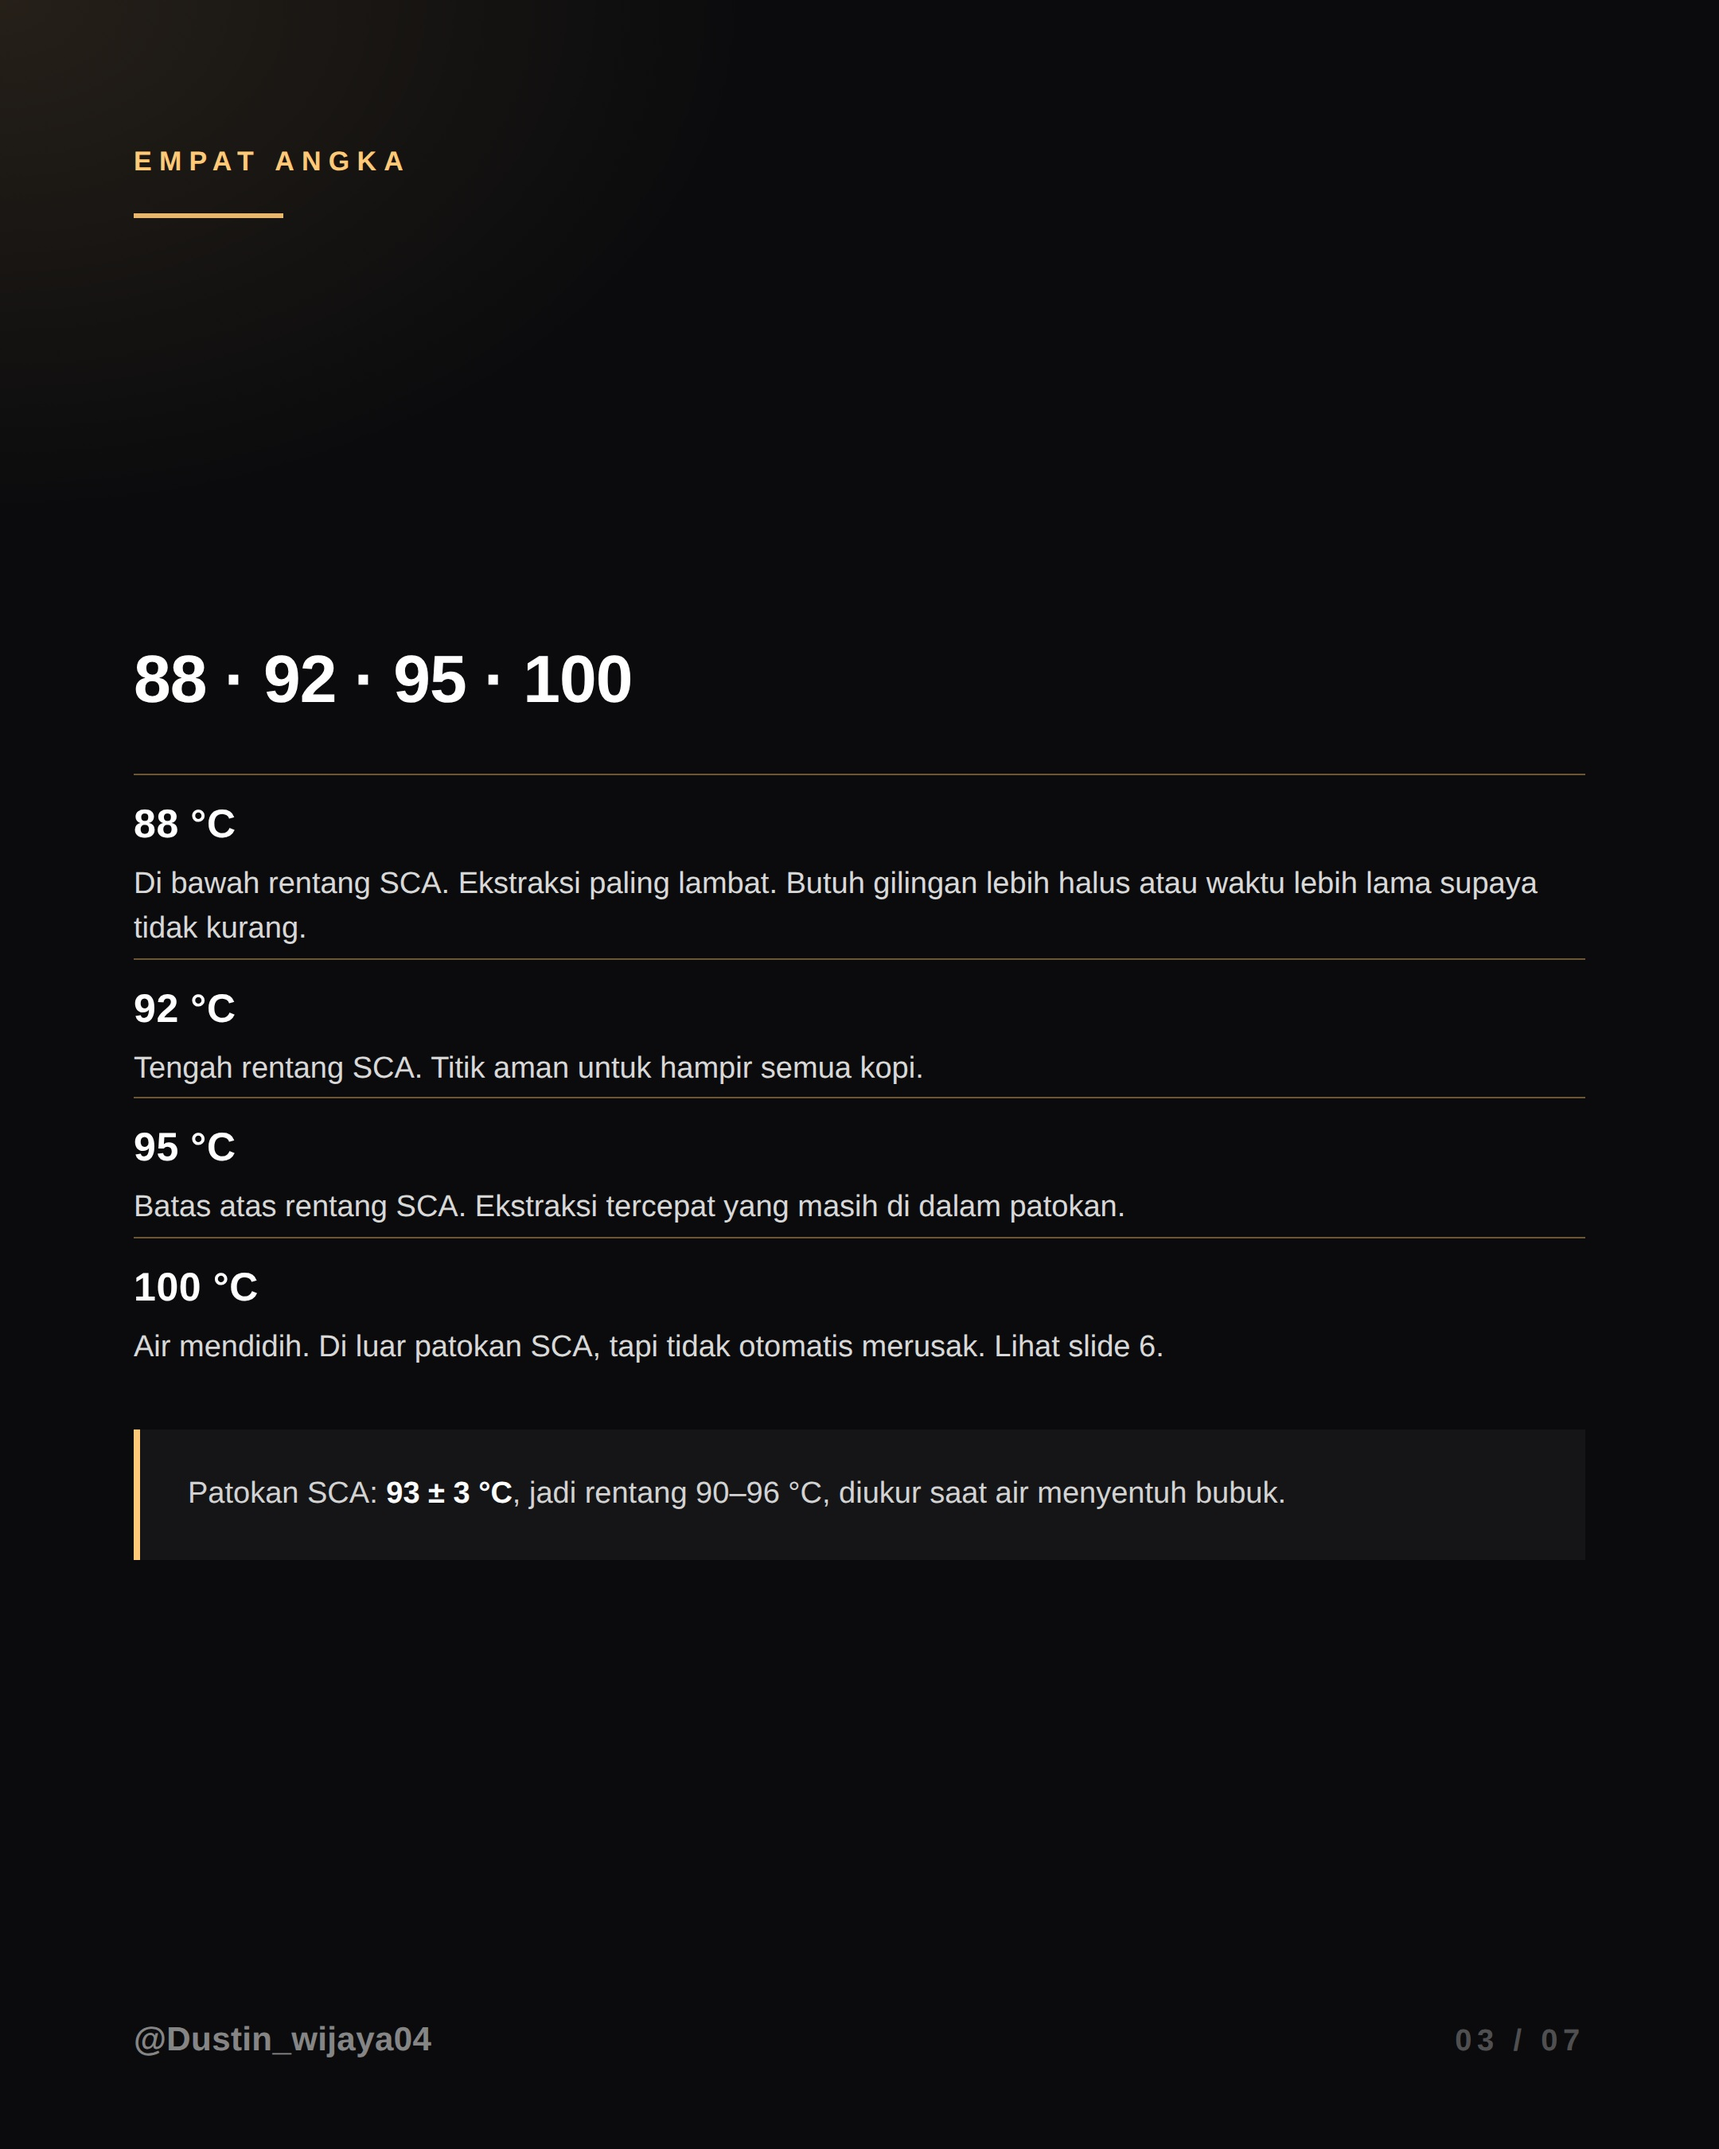
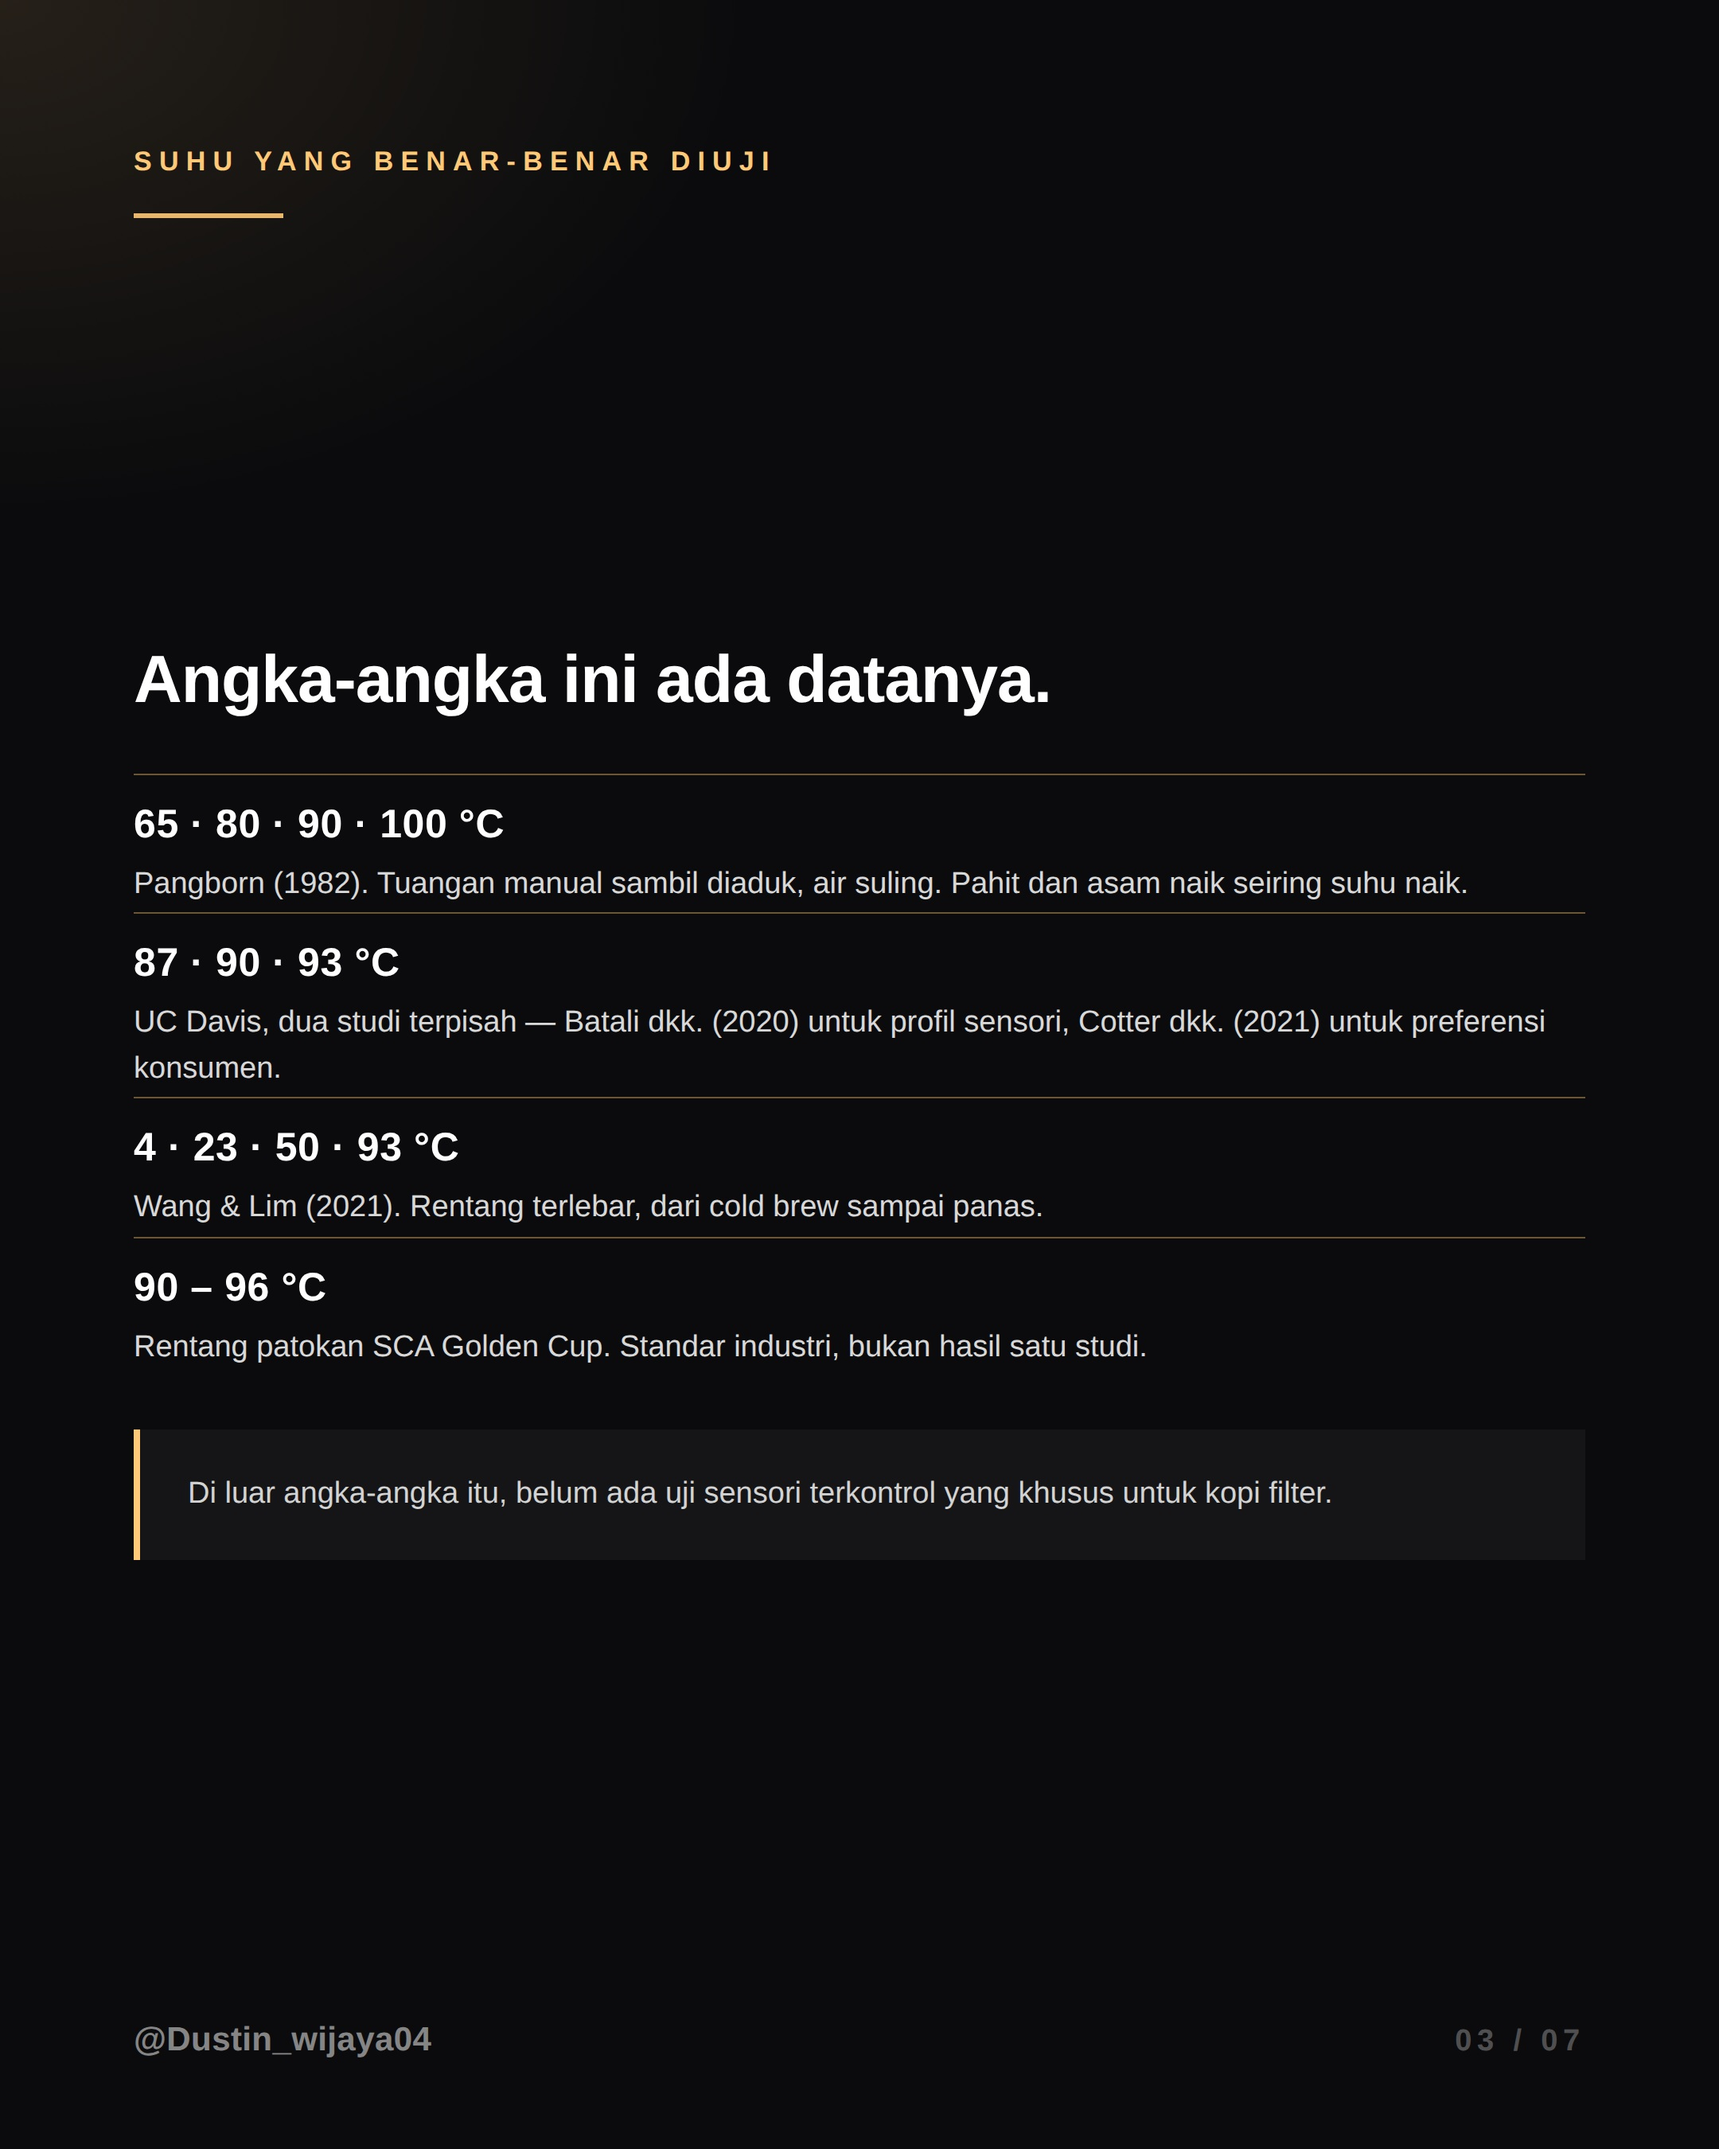
Susun ulang carousel suhu pakai suhu yang benar-benar diteliti
- Ganti angka contoh 88/92/95/100 dengan suhu dari riset nyata:
  Pangborn 65/80/90/100, UC Davis 87/90/93, Wang & Lim 4/23/50/93
- Tambah Pangborn (1982) sebagai satu-satunya riset yang menguji 100 C
- Slide inti jadi rekonsiliasi Pangborn dan Batali: suhu bekerja lewat
  ekstraksi, bukan langsung ke rasa
- Catat aturan Dustin: angka yang dia sebut itu contoh, jangan diikuti
  mentah-mentah

Claude-Session: https://claude.ai/code/session_01DWyspajaqx8W3wFxgo15X2

diff --git a/CLAUDE.md b/CLAUDE.md
@@ -268,7 +268,7 @@ dulu sebelum render ulang carousel** — kalau ternyata salah, semua slide harus
 | `immersion-vs-percolation/` | 9 slide — versi yang dipakai, gaya ringkas |
 | `cone-vs-flatbottom/` | 9 slide — cone vs flat bottom dripper |
 | `dilute-bypass/` | 8 slide — kenapa kopi perlu di-dilute (bypass). **Dikirim sebagai PNG transparan** atas permintaan Dustin |
-| `suhu-air/` | 7 slide — pengaruh suhu air (88/92/95/100 °C). **PNG transparan.** Twist-nya: suhu = alat pengatur ekstraksi, bukan bahan rasa |
+| `suhu-air/` | 7 slide — pengaruh suhu air, memakai **suhu yang benar-benar diuji riset** (Pangborn 65/80/90/100 · UC Davis 87/90/93 · Wang & Lim 4/23/50/93 · SCA 90–96). **PNG transparan.** Tulang punggungnya: Pangborn vs Batali, suhu bekerja lewat ekstraksi |
 
 ---
 
@@ -608,9 +608,21 @@ menyebut versi lamanya. Koreksi cukup disampaikan ke Dustin lewat chat, atau dis
 - **Framing yang dipakai di carousel:** *"suhu bukan bahan rasa, suhu itu alat"* — suhu penting karena mengubah
   ekstraksi, bukan karena panasnya menciptakan rasa. Suhu, gilingan, dan waktu adalah **tiga jalan menuju tempat
   yang sama**
-- ⚠ **JANGAN BIKIN TABEL "RASA PER SUHU"** (mis. 88 = asam, 95 = pahit). Tidak ada di riset mana pun, dan justru
-  **bertentangan** dengan Batali dkk. Dustin sempat minta perbandingan per suhu — yang diberikan adalah posisi
-  terhadap rentang SCA + efek ke laju ekstraksi, bukan deskriptor rasa
+- ⚠ **Pangborn, R.M. (1982)** — "Influence of water composition, extraction procedures, and holding time and
+  temperature on quality of coffee beverage", *Lebensmittel-Wissenschaft und Technologie* **15(3):161–168**.
+  Tuangan manual sambil diaduk, air suling, diuji di **65, 80, 90, dan 100 °C**. **Pahit dan asam naik seiring
+  suhu naik.** Eksperimen pelengkap dengan air sadah & lunak di 80 dan 100 °C hasilnya serupa. Ini satu-satunya
+  riset yang menguji sampai **100 °C**
+- ⚠ **SINTESIS PALING KUAT — Pangborn vs Batali kelihatan bertabrakan, padahal tidak.** Pangborn **hanya mengubah
+  suhu**, jadi ekstraksi ikut naik → pahit & asam naik. Batali **menyamakan TDS dan extraction yield lebih dulu**,
+  jadi suhunya sendiri tidak berpengaruh. **Kesimpulan: suhu bekerja LEWAT ekstraksi, bukan langsung ke rasa.**
+  Ini tulang punggung carousel `suhu-air/`
+- ⚠ **JANGAN BIKIN TABEL "RASA PER ANGKA SUHU"** (mis. 88 = asam, 95 = pahit). Belum ada riset yang bikin daftar
+  deskriptor per suhu. Yang ada cuma **arah umum** dari Pangborn, dan arah itu pun hilang begitu ekstraksinya
+  disamakan
+- ⚠ **ATURAN DARI DUSTIN (permintaan langsung):** kalau dia menyebut angka sebagai contoh, **jangan diikuti
+  mentah-mentah** — pakai angka yang memang sudah diteliti orang. Kata dia: *"suhunya itu contoh aja."* Versi
+  pertama carousel ini memakai 88/92/95/100 mengikuti contohnya; diganti ke suhu yang benar-benar diuji
 - **Air mendidih (100 °C):** tidak ada bukti merusak kopi filter. **James Hoffmann** justru menganjurkannya karena
   lebih konsisten ("Brew your coffee with boiling water"). Level **BUKTI SEDANG** — posisi praktisi, bukan riset
 - **Patokan per level sangrai** (Light 94–96 · Medium 92–94 · Dark 90–92) = **kebiasaan industri, BUKAN standar
